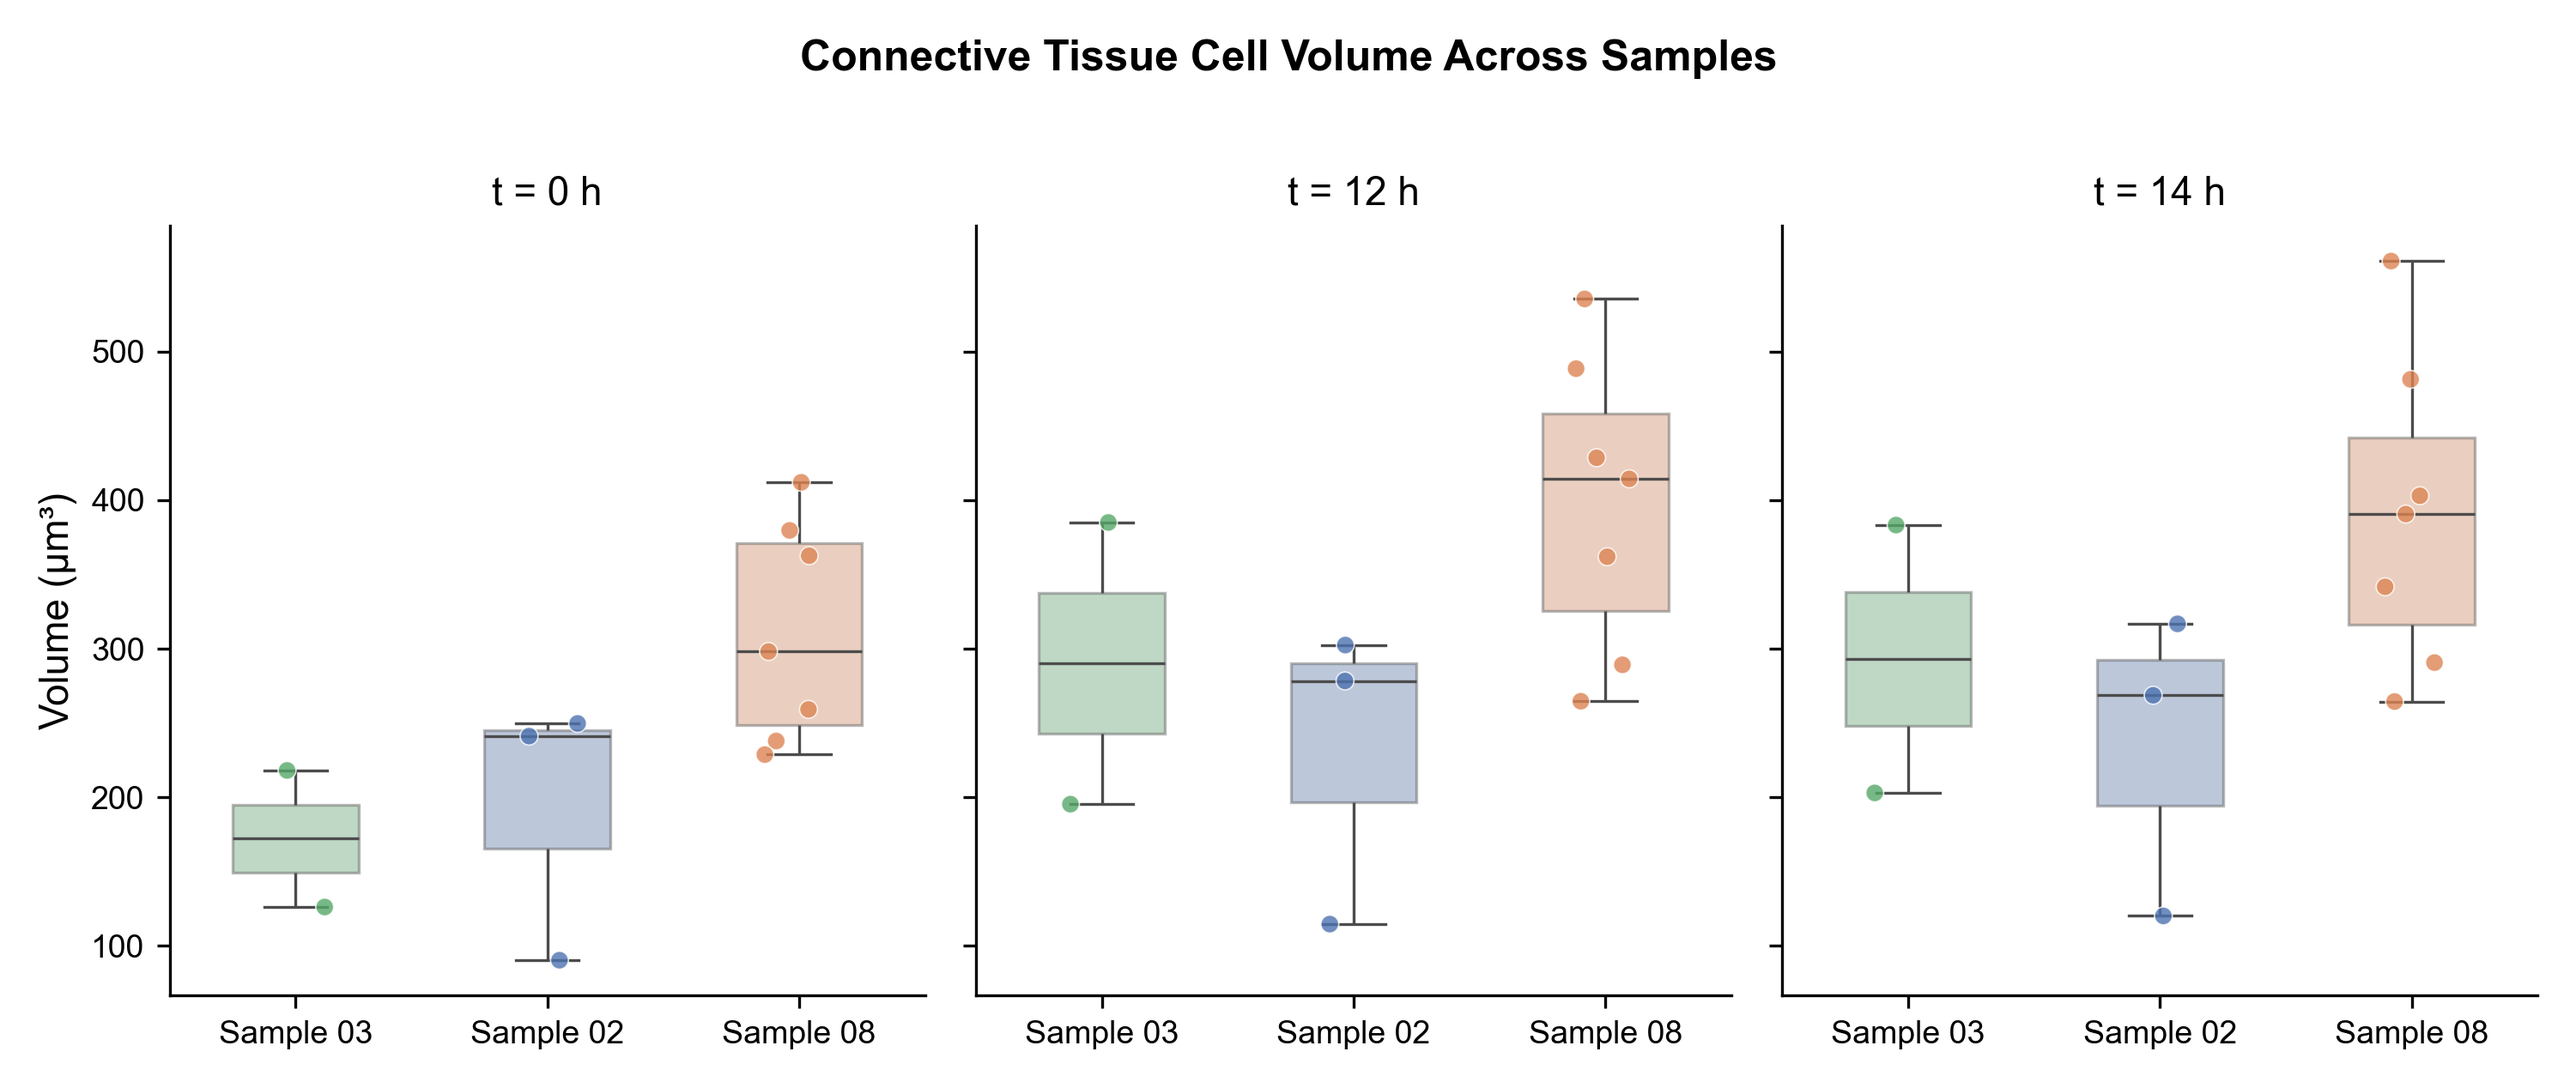
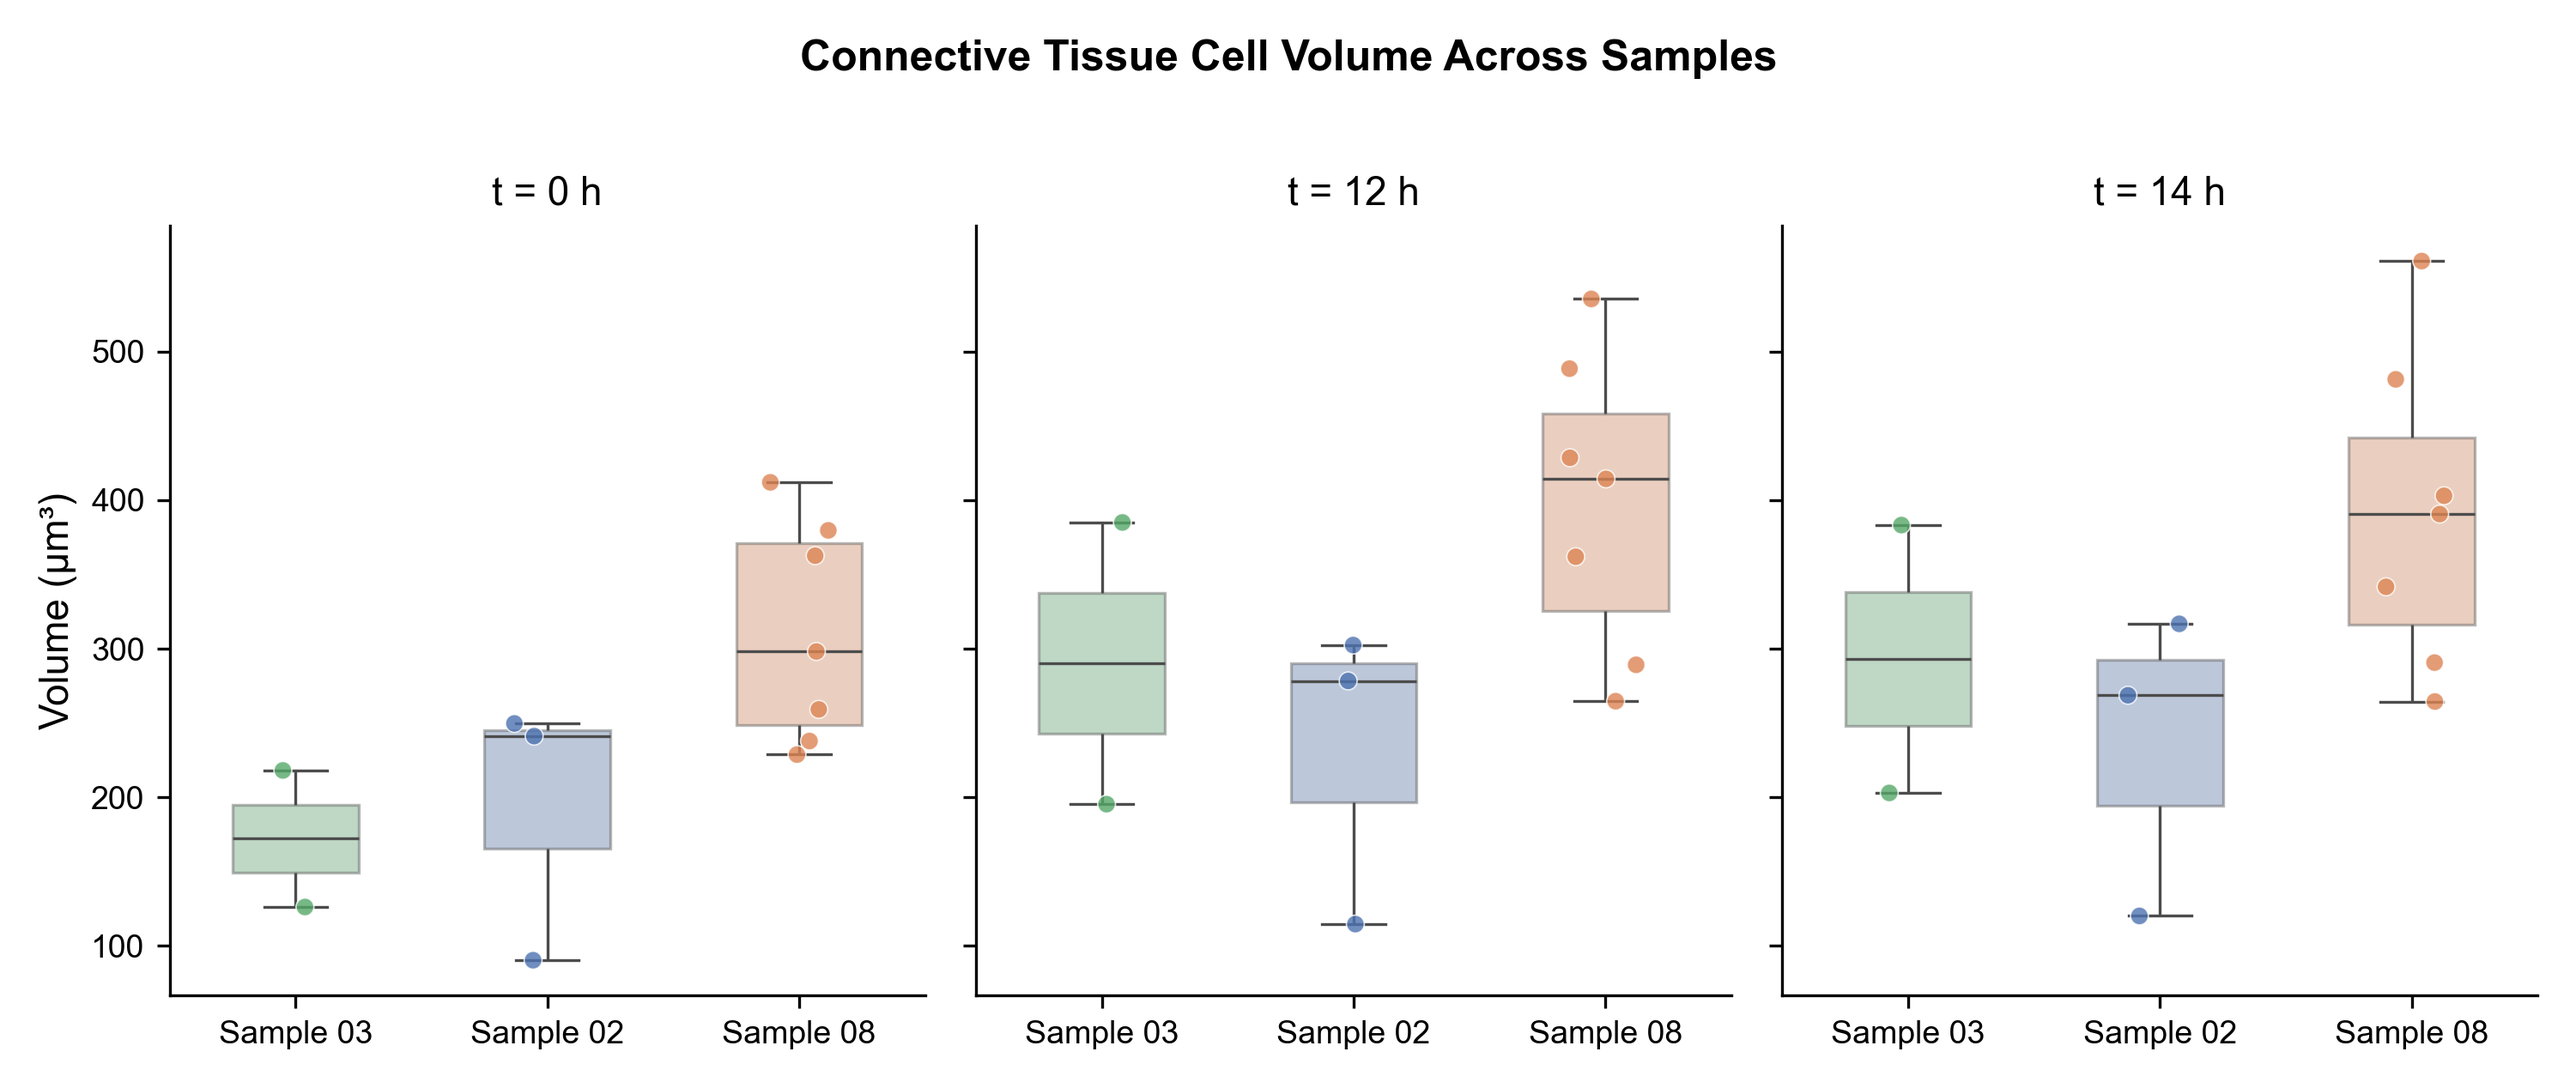
feat: generate 16 research-ready visualizations from single cell division volume data
- Parse Excel data (arrangement tab) with 3 samples, 2 tissue types, 39 cells
- 4 required comparisons: locule across samples, CT across samples,
  locule vs CT within sample, overall locule vs CT
- Combined trajectory plots for locule and CT separately (05b, 05c)
- Paired dot plot with 0h→12h→14h showing division between 12h-14h (09)
- Division analysis: scatter, volume change %, growth phases (11-13)
- Combined trajectory with division marker (14)
- Additional: % growth, mean bars with SEM, heatmap, violin plots
- All outputs at 300 DPI in /visualization as PNG
- Add requirements.txt and bilingual README (EN/中文) with embedded figures
- Fix reproducibility: set random seeds and deterministic jitter

diff --git a/generate_visualizations.py b/generate_visualizations.py
@@ -14,6 +14,9 @@ import numpy as np
 import os
 from itertools import combinations
 
+# Fix random seed so plots are identical across runs
+np.random.seed(42)
+
 # ============================================================
 # 1. PARSE DATA FROM EXCEL
 # ============================================================
@@ -384,6 +387,96 @@ def fig5_growth_trajectories():
 
 
 # ============================================================
+# FIGURE 5b: Combined Locule trajectory (all samples, one panel)
+# ============================================================
+
+def fig5b_locule_combined_trajectory():
+    fig, ax = plt.subplots(figsize=(6, 5))
+    fig.suptitle('Locule Cell Volume Trajectory Through Division\n(All Samples)', fontweight='bold', y=1.04)
+
+    stages = ['0 h\n(Before growth)', '12 h\n(Before division)', '14 h\n(After division)']
+    x_pos = [0, 1, 2]
+
+    sub_all = df[df['Tissue'] == 'Locule']
+
+    # Individual traces
+    for _, row in sub_all.iterrows():
+        color = SAMPLE_COLORS[row['Sample']]
+        vols = [row['Vol_0h'], row['Vol_12h'], row['Vol_14h']]
+        ax.plot(x_pos, vols, '-o', color=color, alpha=0.25, linewidth=0.8, markersize=3.5)
+
+    # Mean traces per sample
+    for sample in SAMPLE_ORDER:
+        sub = sub_all[sub_all['Sample'] == sample]
+        if len(sub) == 0:
+            continue
+        means = [sub['Vol_0h'].mean(), sub['Vol_12h'].mean(), sub['Vol_14h'].mean()]
+        ax.plot(x_pos, means, '-s', color=SAMPLE_COLORS[sample],
+                linewidth=2.5, markersize=10, label=f'{sample_map_short[sample]} (n={len(sub)})',
+                markeredgecolor='white', markeredgewidth=1, zorder=5)
+
+    # Division line
+    ax.axvline(x=1.5, color='#C0392B', linestyle=':', alpha=0.8, linewidth=1.8)
+    ylim = ax.get_ylim()
+    ax.text(1.55, ylim[1] - (ylim[1] - ylim[0]) * 0.03, 'DIVISION', color='#C0392B',
+            fontsize=9, fontweight='bold', va='top')
+
+    ax.set_xticks(x_pos)
+    ax.set_xticklabels(stages)
+    ax.set_ylabel('Volume (μm³)')
+    ax.set_xlim(-0.3, 2.4)
+    ax.legend(frameon=True, framealpha=0.9, edgecolor='gray', fontsize=9, loc='upper left')
+
+    fig.tight_layout()
+    save_fig(fig, '05b_locule_combined_trajectory')
+
+
+# ============================================================
+# FIGURE 5c: Combined Connective Tissue trajectory (all samples)
+# ============================================================
+
+def fig5c_ct_combined_trajectory():
+    fig, ax = plt.subplots(figsize=(6, 5))
+    fig.suptitle('Connective Tissue Cell Volume Trajectory Through Division\n(All Samples)', fontweight='bold', y=1.04)
+
+    stages = ['0 h\n(Before growth)', '12 h\n(Before division)', '14 h\n(After division)']
+    x_pos = [0, 1, 2]
+
+    sub_all = df[df['Tissue'] == 'Connective tissue']
+
+    # Individual traces
+    for _, row in sub_all.iterrows():
+        color = SAMPLE_COLORS[row['Sample']]
+        vols = [row['Vol_0h'], row['Vol_12h'], row['Vol_14h']]
+        ax.plot(x_pos, vols, '-o', color=color, alpha=0.25, linewidth=0.8, markersize=3.5)
+
+    # Mean traces per sample
+    for sample in SAMPLE_ORDER:
+        sub = sub_all[sub_all['Sample'] == sample]
+        if len(sub) == 0:
+            continue
+        means = [sub['Vol_0h'].mean(), sub['Vol_12h'].mean(), sub['Vol_14h'].mean()]
+        ax.plot(x_pos, means, '-s', color=SAMPLE_COLORS[sample],
+                linewidth=2.5, markersize=10, label=f'{sample_map_short[sample]} (n={len(sub)})',
+                markeredgecolor='white', markeredgewidth=1, zorder=5)
+
+    # Division line
+    ax.axvline(x=1.5, color='#C0392B', linestyle=':', alpha=0.8, linewidth=1.8)
+    ylim = ax.get_ylim()
+    ax.text(1.55, ylim[1] - (ylim[1] - ylim[0]) * 0.03, 'DIVISION', color='#C0392B',
+            fontsize=9, fontweight='bold', va='top')
+
+    ax.set_xticks(x_pos)
+    ax.set_xticklabels(stages)
+    ax.set_ylabel('Volume (μm³)')
+    ax.set_xlim(-0.3, 2.4)
+    ax.legend(frameon=True, framealpha=0.9, edgecolor='gray', fontsize=9, loc='upper left')
+
+    fig.tight_layout()
+    save_fig(fig, '05c_connective_tissue_combined_trajectory')
+
+
+# ============================================================
 # FIGURE 6: Percentage growth (0h → 14h) by sample and tissue
 # ============================================================
 
@@ -537,43 +630,58 @@ def fig8_growth_heatmap():
 # ============================================================
 
 def fig9_paired_dotplot():
-    fig, axes = plt.subplots(1, 3, figsize=(11, 4.5), sharey=True)
-    fig.suptitle('Cell Volume Change: 0 h vs. 14 h (Paired)', fontweight='bold', y=1.02)
+    from matplotlib.lines import Line2D
+
+    fig, axes = plt.subplots(1, 3, figsize=(12, 5), sharey=True)
+    fig.suptitle('Cell Volume Trajectory (0 h → 12 h → 14 h) with Tissue Means',
+                 fontweight='bold', y=1.02)
+
+    x_pos = [0, 1, 2]
+    stages = ['0 h', '12 h', '14 h']
 
     for i, sample in enumerate(SAMPLE_ORDER):
         ax = axes[i]
         sub = df[df['Sample'] == sample].copy()
 
+        # Individual cell traces
         for _, row in sub.iterrows():
             color = TISSUE_COLORS[row['Tissue']]
-            ax.plot([0, 1], [row['Vol_0h'], row['Vol_14h']],
-                    color=color, alpha=0.4, linewidth=0.8)
-            ax.scatter([0], [row['Vol_0h']], color=color, s=25, zorder=5,
-                       edgecolor='white', linewidth=0.3, alpha=0.8)
-            ax.scatter([1], [row['Vol_14h']], color=color, s=25, zorder=5,
-                       edgecolor='white', linewidth=0.3, alpha=0.8)
+            vols = [row['Vol_0h'], row['Vol_12h'], row['Vol_14h']]
+            ax.plot(x_pos, vols, '-o', color=color, alpha=0.3, linewidth=0.8,
+                    markersize=4, markeredgecolor='white', markeredgewidth=0.3)
 
-        ax.set_xticks([0, 1])
-        ax.set_xticklabels(['0 h', '14 h'])
+        # Mean traces per tissue type
+        for tissue in ['Locule', 'Connective tissue']:
+            tsub = sub[sub['Tissue'] == tissue]
+            if len(tsub) == 0:
+                continue
+            means = [tsub['Vol_0h'].mean(), tsub['Vol_12h'].mean(), tsub['Vol_14h'].mean()]
+            ax.plot(x_pos, means, '-s', color=TISSUE_COLORS[tissue],
+                    linewidth=2.5, markersize=9, zorder=5,
+                    markeredgecolor='white', markeredgewidth=1,
+                    label=f'{tissue} mean (n={len(tsub)})')
+
+        # Division line
+        ax.axvline(x=1.5, color='#C0392B', linestyle=':', alpha=0.7, linewidth=1.5)
+        if i == 0:
+            ylim = ax.get_ylim()
+            ax.text(1.55, ax.get_ylim()[1] * 0.97, 'Division',
+                    color='#C0392B', fontsize=8, fontweight='bold', va='top')
+
+        ax.set_xticks(x_pos)
+        ax.set_xticklabels(stages)
         ax.set_title(sample_map_short[sample], fontsize=11)
         if i == 0:
             ax.set_ylabel('Volume (μm³)')
-        ax.set_xlim(-0.3, 1.3)
+        ax.set_xlim(-0.3, 2.4)
 
         # Legend on first panel
         if i == 0:
-            from matplotlib.lines import Line2D
-            legend_elements = [
-                Line2D([0], [0], marker='o', color=TISSUE_COLORS['Locule'],
-                       label='Locule', markersize=5, linewidth=0.8, alpha=0.7),
-                Line2D([0], [0], marker='o', color=TISSUE_COLORS['Connective tissue'],
-                       label='Connective tissue', markersize=5, linewidth=0.8, alpha=0.7),
-            ]
-            ax.legend(handles=legend_elements, loc='upper left', frameon=True,
-                      framealpha=0.9, edgecolor='gray', fontsize=8)
+            ax.legend(frameon=True, framealpha=0.9, edgecolor='gray', fontsize=7.5,
+                      loc='upper left')
 
     fig.tight_layout()
-    save_fig(fig, '09_paired_dotplot_0h_vs_14h')
+    save_fig(fig, '09_paired_dotplot_0h_12h_14h')
 
 
 # ============================================================
@@ -897,6 +1005,8 @@ fig2_ct_across_samples()
 fig3_tissue_within_sample()
 fig4_overall_locule_vs_ct()
 fig5_growth_trajectories()
+fig5b_locule_combined_trajectory()
+fig5c_ct_combined_trajectory()
 fig6_percent_growth()
 fig7_mean_volume_bars()
 fig8_growth_heatmap()
@@ -906,4 +1016,4 @@ fig11_before_vs_after_division_scatter()
 fig12_division_volume_change()
 fig13_growth_phases()
 fig14_combined_trajectory()
-print("\nDone! All 14 visualizations saved to visualization/")
+print("\nDone! All 16 visualizations saved to visualization/")

diff --git a/README.md b/README.md
@@ -106,6 +106,22 @@ Each cell's volume trajectory (0 h → 12 h → 14 h) plotted as a thin line, wi
 
 ---
 
+#### Figure 05b — Locule Combined Trajectory (All Samples)
+
+All locule cells from all samples plotted on a single panel with individual traces and per-sample mean trajectories. A red division line marks the 12 h → 14 h transition.
+
+![Locule combined trajectory](visualization/05b_locule_combined_trajectory.png)
+
+---
+
+#### Figure 05c — Connective Tissue Combined Trajectory (All Samples)
+
+All connective tissue cells from all samples plotted on a single panel with individual traces and per-sample mean trajectories. A red division line marks the 12 h → 14 h transition.
+
+![CT combined trajectory](visualization/05c_connective_tissue_combined_trajectory.png)
+
+---
+
 #### Figure 06 — Percentage Volume Growth (0 h → 14 h)
 
 Box + strip plots of total percentage growth from 0 h to 14 h. Left panel: grouped by sample and tissue. Right panel: pooled by tissue type.
@@ -130,11 +146,11 @@ Heatmap of mean percentage volume growth for two intervals: 0 h → 12 h (pre-di
 
 ---
 
-#### Figure 09 — Paired Dot Plot (0 h vs. 14 h)
+#### Figure 09 — Cell Volume Trajectory by Sample (0 h → 12 h → 14 h)
 
-Each cell is shown as a pair of connected dots at 0 h and 14 h, colored by tissue type. Visualizes the direction and magnitude of volume change for every individual cell.
+Each cell's volume trajectory across all three timepoints (0 h, 12 h, 14 h) with individual traces colored by tissue type. Bold lines show the mean trajectory for Locule and Connective tissue within each sample. A red division line marks the division event.
 
-![Paired dotplot](visualization/09_paired_dotplot_0h_vs_14h.png)
+![Paired dotplot](visualization/09_paired_dotplot_0h_12h_14h.png)
 
 ---
 
@@ -184,16 +200,18 @@ All cells from all samples plotted on a single panel with individual traces, per
 single_cell_division_volume_visualization/
 ├── data/
 │   └── single cell division_volume.xlsx   # Raw data (arrangement tab)
-├── visualization/                         # Generated figures (14 PNGs, 300 DPI)
+├── visualization/                         # Generated figures (16 PNGs, 300 DPI)
 │   ├── 01_locule_across_samples.png
 │   ├── 02_connective_tissue_across_samples.png
 │   ├── 03_locule_vs_connective_within_sample.png
 │   ├── 04_overall_locule_vs_connective_tissue.png
 │   ├── 05_individual_cell_trajectories.png
+│   ├── 05b_locule_combined_trajectory.png
+│   ├── 05c_connective_tissue_combined_trajectory.png
 │   ├── 06_percent_growth_0h_to_14h.png
 │   ├── 07_mean_volume_bars_with_sem.png
 │   ├── 08_growth_heatmap.png
-│   ├── 09_paired_dotplot_0h_vs_14h.png
+│   ├── 09_paired_dotplot_0h_12h_14h.png
 │   ├── 10_violin_locule_vs_connective_tissue.png
 │   ├── 11_volume_before_vs_after_division_scatter.png
 │   ├── 12_volume_change_at_division.png
@@ -309,6 +327,22 @@ python generate_visualizations.py
 
 ---
 
+#### 图 05b — Locule 综合轨迹（所有样本）
+
+将所有样本的 locule 细胞绘制在同一面板上，包含个体轨迹和各样本均值轨迹。红色分裂线标记 12 h → 14 h 的过渡。
+
+![Locule 综合轨迹](visualization/05b_locule_combined_trajectory.png)
+
+---
+
+#### 图 05c — 结缔组织综合轨迹（所有样本）
+
+将所有样本的结缔组织细胞绘制在同一面板上，包含个体轨迹和各样本均值轨迹。红色分裂线标记 12 h → 14 h 的过渡。
+
+![结缔组织综合轨迹](visualization/05c_connective_tissue_combined_trajectory.png)
+
+---
+
 #### 图 06 — 百分比体积增长（0 h → 14 h）
 
 箱线图 + 散点图展示 0 h 到 14 h 的总百分比增长。左面板：按样本和组织分组；右面板：按组织类型合并。
@@ -333,11 +367,11 @@ python generate_visualizations.py
 
 ---
 
-#### 图 09 — 配对点图（0 h vs. 14 h）
+#### 图 09 — 各样本细胞体积轨迹（0 h → 12 h → 14 h）
 
-每个细胞以连线的点对形式展示其在 0 h 和 14 h 的体积，按组织类型着色。直观展示每个细胞体积变化的方向和幅度。
+每个细胞在三个时间点（0 h、12 h、14 h）的体积轨迹，按组织类型着色。粗线展示各样本内 Locule 和结缔组织的均值轨迹。红色分裂线标记分裂事件。
 
-![配对点图](visualization/09_paired_dotplot_0h_vs_14h.png)
+![配对点图](visualization/09_paired_dotplot_0h_12h_14h.png)
 
 ---
 
@@ -387,16 +421,18 @@ python generate_visualizations.py
 single_cell_division_volume_visualization/
 ├── data/
 │   └── single cell division_volume.xlsx   # 原始数据（arrangement 工作表）
-├── visualization/                         # 生成的图表（14 张 PNG，300 DPI）
+├── visualization/                         # 生成的图表（16 张 PNG，300 DPI）
 │   ├── 01_locule_across_samples.png
 │   ├── 02_connective_tissue_across_samples.png
 │   ├── 03_locule_vs_connective_within_sample.png
 │   ├── 04_overall_locule_vs_connective_tissue.png
 │   ├── 05_individual_cell_trajectories.png
+│   ├── 05b_locule_combined_trajectory.png
+│   ├── 05c_connective_tissue_combined_trajectory.png
 │   ├── 06_percent_growth_0h_to_14h.png
 │   ├── 07_mean_volume_bars_with_sem.png
 │   ├── 08_growth_heatmap.png
-│   ├── 09_paired_dotplot_0h_vs_14h.png
+│   ├── 09_paired_dotplot_0h_12h_14h.png
 │   ├── 10_violin_locule_vs_connective_tissue.png
 │   ├── 11_volume_before_vs_after_division_scatter.png
 │   ├── 12_volume_change_at_division.png
